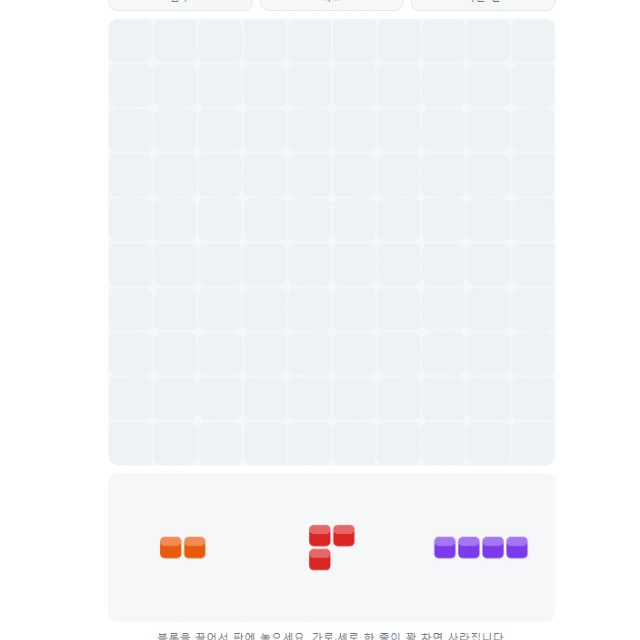
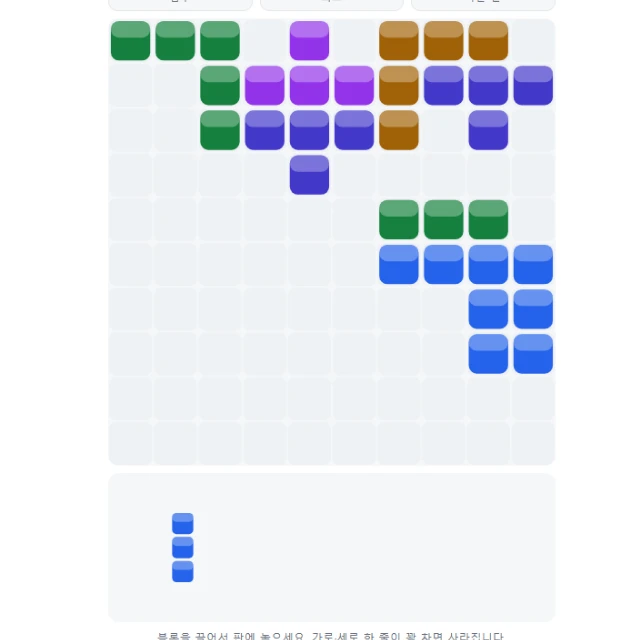
chore(thumbs): recapture the four thumbnails on the rainbow palette; sw cache v15
- block-drop, block-puzzle and 2048 thumbnails now show the rainbow; the puzzle
  board is filled by driving the real pointer path (pointerdown on the tray,
  pointermove over the board, pointerup) rather than by poking internal state
- the puzzle drops are spread across the board on purpose: packing them into one
  corner completes a line, and the clearing flash was landing in the picture
- word thumbnail now carries three guess rows so correct / wrong-place / absent
  are all visible at once
- each thumbnail is verified from the image itself (palette colours counted by
  colour difference, board rectangle measured in the picture), not from the log
- thumbnails are precached, so the service worker cache goes v14 -> v15

Claude-Session: https://claude.ai/code/session_01FbAe4C9PVgaCBsNubpLJgt

diff --git a/sw.js b/sw.js
@@ -4,7 +4,7 @@
  * ★캐시 버전: 파일을 추가/변경하면 CACHE 문자열을 올려라(구버전은 activate 에서 삭제된다).
  *   DEPLOY.md '게임 추가 절차' 체크리스트 참조.
  */
-const CACHE = 'hanpango-v14';
+const CACHE = 'hanpango-v15';
 
 /* 사이트 총량 ~100KB(정적) — 전량 프리캐시한다.
  * 디렉터리 형태(/block-puzzle/)와 파일 형태(/block-puzzle/index.html)를 둘 다 넣는 것은
